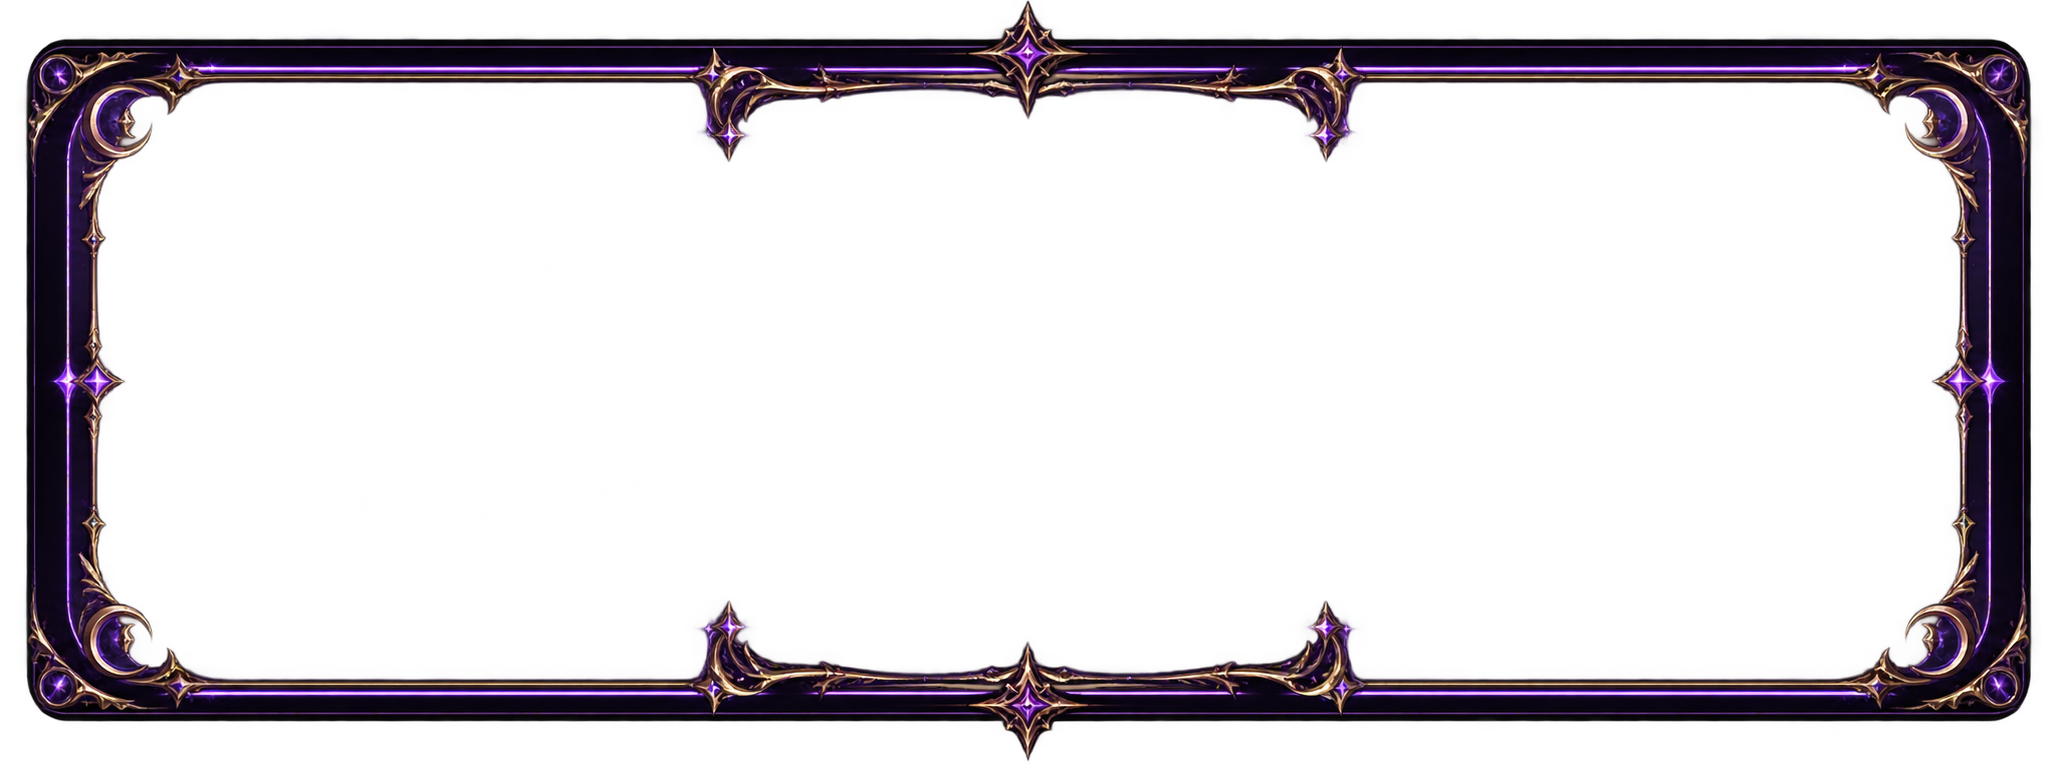
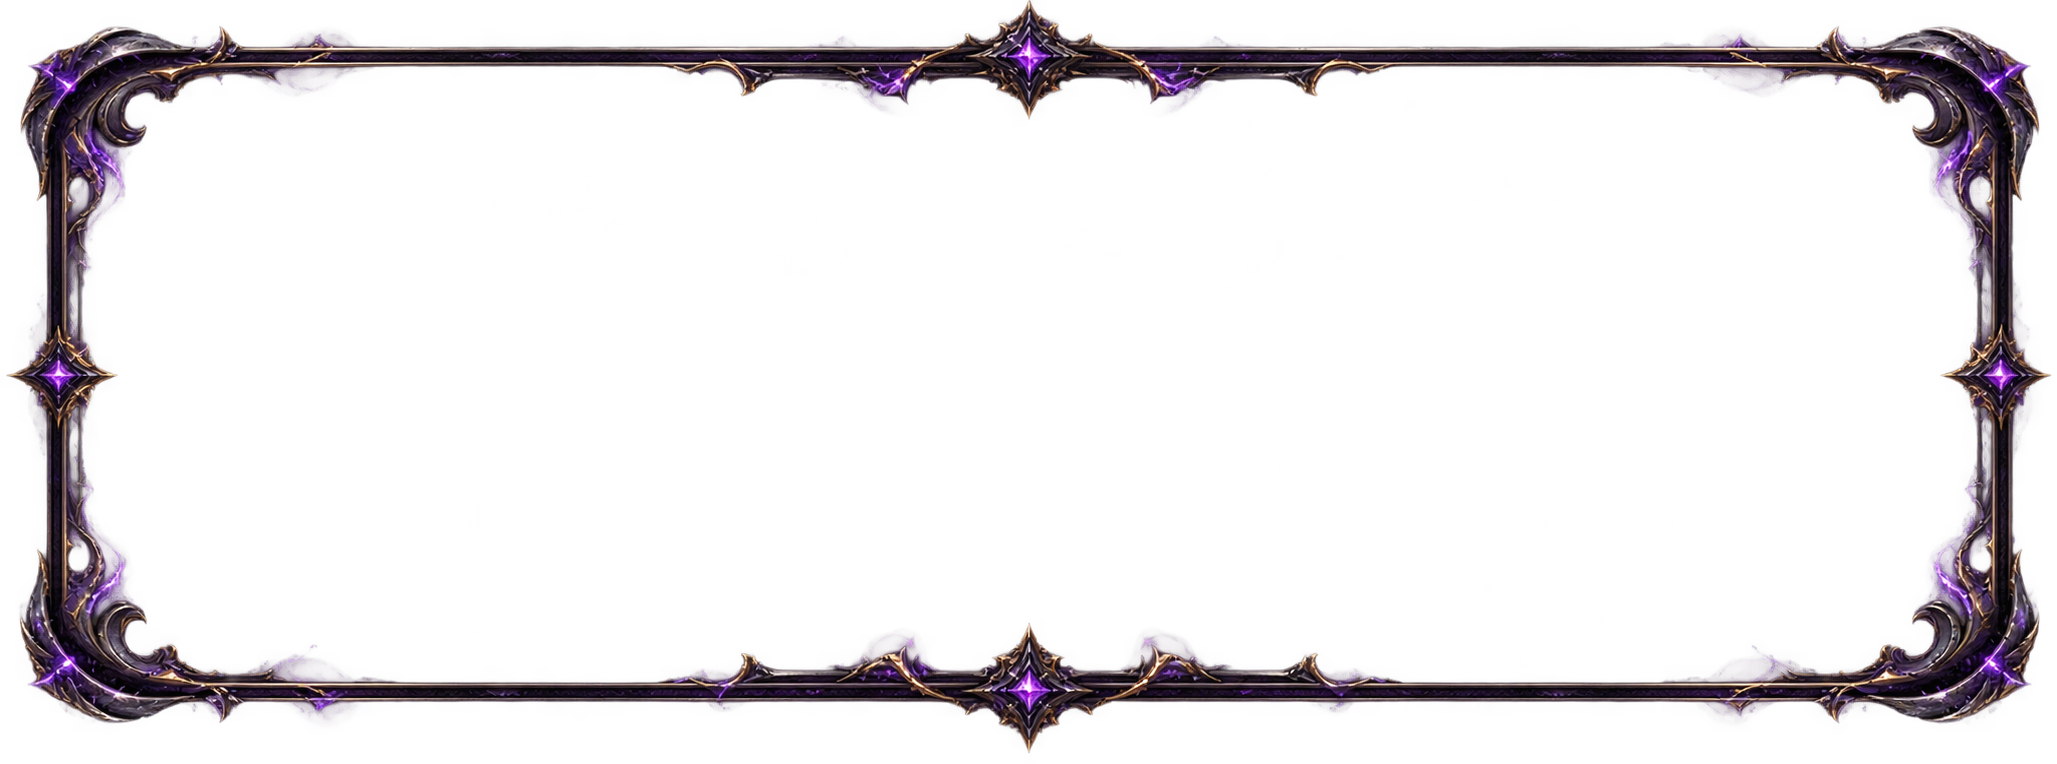
Update sealed character frame

Changed region(s): [[0.0, 0.0, 0.9956, 0.9935]]

diff --git a/characters/all.html b/characters/all.html
@@ -10,7 +10,7 @@
   <link rel="stylesheet" href="/aevum-archive/assets/ornament-v3.css?v=20260817-1">
   <link rel="stylesheet" href="/aevum-archive/assets/round4-assets.css?v=20260817-3">
   <link rel="stylesheet" href="/aevum-archive/assets/master-ui.css?v=20260821-2">
-  <link rel="stylesheet" href="/aevum-archive/assets/character-status-frames.css?v=20260829-fullframes1">
+  <link rel="stylesheet" href="/aevum-archive/assets/character-status-frames.css?v=20260829-fullframes2">
 </head>
 <body class="archive-page theme-characters page-detail route-characters-all">
   <main class="page">

diff --git a/assets/character-status-frames.css b/assets/character-status-frames.css
@@ -41,7 +41,7 @@ body.route-characters-all .status-card.character-card::before {
 }
 
 body.route-characters-all .status-card.character-card.is-sealed::before {
-  background-image: url("/aevum-archive/assets/ui/characters/sealed-frame.png") !important;
+  background-image: url("/aevum-archive/assets/ui/characters/sealed-frame.png?v=20260829-v2") !important;
 }
 
 body.route-characters-all .status-card.character-card.is-dead::before,
